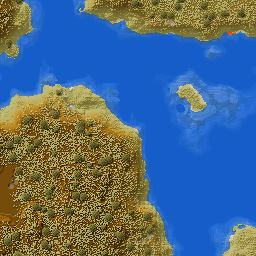
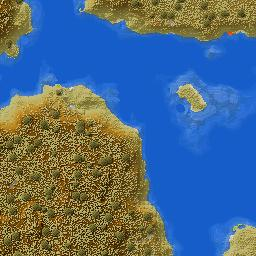
update

Changed region(s): [[0.0, 0.5938, 0.0938, 0.9375], [0.0, 0.9688, 0.0312, 1.0]]

diff --git a/unmined.map.regions.js b/unmined.map.regions.js
@@ -1,6 +1,6 @@
 var UnminedRegions = [
 { x: 0, z: 0, m: new Uint32Array([1574655,31,31,7,1,1,0,0,0,0,0,0,0,0,0,0,0,0,0,0,0,0,0,0,0,0,0,0,0,0,0,0,0,0,0,0,0,0,0,0,0,0,0,0,0,0,0,0,0,0,0,0,0,0,0,0,0,0,0,0,0,0,0,0,0,0,0,0,0,0,0,0,0,0,0,0,0,0,0,0,0,0,0,0,0,0,0,0,0,0,0,0,0,0,0,0,0,0,0,0,0,0,0,0,0,0,0,0,0,0,0,0,0,0,0,0,0,0,0,0,0,0,0,0,0,0,0,0,0,0,0,0,0,0,0,0,0,0,0,0,0,0,0,0,0,0,0,0,0,0,0,0,0,0,0,0,0,0,0,0,0,0,0,0,0,0,0,0,0,0,0,0,0,0,0,0,0,0,0,0,0,0,0,0,0,0,0,0,0,0,0,0,0,0,0,0,0,0,0,0,0,0,0,0,0,0,0,0,0,0,0,0,0,0,0,0,0,0,0,0,0,0,0,0,0,0,0,0,0,0,0,0,0,0,0,0,0,0,0,0,0,0,0,0,0,0,0,0,0,0,0,0,0,0,0,0]) },
 { x: 0, z: -1, m: new Uint32Array([0,0,0,0,0,0,0,0,0,0,0,0,0,0,0,0,0,0,0,0,0,0,0,0,0,0,0,0,0,7,255,1574655,0,0,0,0,0,0,0,0,0,0,0,0,0,0,0,0,0,0,0,0,0,0,0,0,0,0,0,0,0,0,0,0,0,0,0,0,0,0,0,0,0,0,0,0,0,0,0,0,0,0,0,0,0,0,0,0,0,0,0,0,0,0,0,0,0,0,0,0,0,0,0,0,0,0,0,0,0,0,0,0,0,0,0,0,0,0,0,0,0,0,0,0,0,0,0,0,0,0,0,0,0,0,0,0,0,0,0,0,0,0,0,0,0,0,0,0,0,0,0,0,0,0,0,0,0,0,0,0,0,0,0,0,0,0,0,0,0,0,0,0,0,0,0,0,0,0,0,0,0,0,0,0,0,0,0,0,0,0,0,0,0,0,0,0,0,0,0,0,0,0,0,0,0,0,0,0,0,0,0,0,0,0,0,0,0,0,0,0,0,0,0,0,0,0,0,0,0,0,0,0,0,0,0,0,0,0,0,0,0,0,0,0,0,0,0,0,0,0,0,0,0,0,0,0]) },
-{ x: -1, z: 0, m: new Uint32Array([3758096384,3221225472,3221225472,3221225472,4026531840,4026531840,4026531840,0,0,0,0,0,0,0,0,0,0,0,0,0,0,0,0,0,0,0,0,0,0,0,0,0,0,0,0,0,0,0,0,0,0,0,0,0,0,0,0,0,0,0,0,0,0,0,0,0,0,0,0,0,0,0,0,0,0,0,0,0,0,0,0,0,0,0,0,0,0,0,0,0,0,0,0,0,0,0,0,0,0,0,0,0,0,0,0,0,0,0,0,0,0,0,0,0,0,0,0,0,0,0,0,0,0,0,0,0,0,0,0,0,0,0,0,0,0,0,0,0,0,0,0,0,0,0,0,0,0,0,0,0,0,0,0,0,0,0,0,0,0,0,0,0,0,0,0,0,0,0,0,0,0,0,0,0,0,0,0,0,0,0,0,0,0,0,0,0,0,0,0,0,0,0,0,0,0,0,0,0,0,0,0,0,0,0,0,0,0,0,0,0,0,0,0,0,0,0,0,0,0,0,0,0,0,0,0,0,0,0,0,0,0,0,0,0,0,0,0,0,0,0,0,0,0,0,0,0,0,0,0,0,0,0,0,0,0,0,0,0,0,0,0,0,0,0,0,0]) },
+{ x: -1, z: 0, m: new Uint32Array([3758096384,3758096384,3221225472,3221225472,4026531840,4026531840,4026531840,0,0,0,0,0,0,0,0,0,0,0,0,0,0,0,0,0,0,0,0,0,0,0,0,0,0,0,0,0,0,0,0,0,0,0,0,0,0,0,0,0,0,0,0,0,0,0,0,0,0,0,0,0,0,0,0,0,0,0,0,0,0,0,0,0,0,0,0,0,0,0,0,0,0,0,0,0,0,0,0,0,0,0,0,0,0,0,0,0,0,0,0,0,0,0,0,0,0,0,0,0,0,0,0,0,0,0,0,0,0,0,0,0,0,0,0,0,0,0,0,0,0,0,0,0,0,0,0,0,0,0,0,0,0,0,0,0,0,0,0,0,0,0,0,0,0,0,0,0,0,0,0,0,0,0,0,0,0,0,0,0,0,0,0,0,0,0,0,0,0,0,0,0,0,0,0,0,0,0,0,0,0,0,0,0,0,0,0,0,0,0,0,0,0,0,0,0,0,0,0,0,0,0,0,0,0,0,0,0,0,0,0,0,0,0,0,0,0,0,0,0,0,0,0,0,0,0,0,0,0,0,0,0,0,0,0,0,0,0,0,0,0,0,0,0,0,0,0,0]) },
 { x: -1, z: -1, m: new Uint32Array([0,0,0,0,0,0,0,0,0,0,0,0,0,0,0,0,0,0,0,0,0,0,0,0,0,0,0,3758096384,4160749568,4160749568,4160749568,3758096384,0,0,0,0,0,0,0,0,0,0,0,0,0,0,0,0,0,0,0,0,0,0,0,0,0,0,0,0,0,0,0,0,0,0,0,0,0,0,0,0,0,0,0,0,0,0,0,0,0,0,0,0,0,0,0,0,0,0,0,0,0,0,0,0,0,0,0,0,0,0,0,0,0,0,0,0,0,0,0,0,0,0,0,0,0,0,0,0,0,0,0,0,0,0,0,0,0,0,0,0,0,0,0,0,0,0,0,0,0,0,0,0,0,0,0,0,0,0,0,0,0,0,0,0,0,0,0,0,0,0,0,0,0,0,0,0,0,0,0,0,0,0,0,0,0,0,0,0,0,0,0,0,0,0,0,0,0,0,0,0,0,0,0,0,0,0,0,0,0,0,0,0,0,0,0,0,0,0,0,0,0,0,0,0,0,0,0,0,0,0,0,0,0,0,0,0,0,0,0,0,0,0,0,0,0,0,0,0,0,0,0,0,0,0,0,0,0,0,0,0,0,0,0,0]) },
 ];
